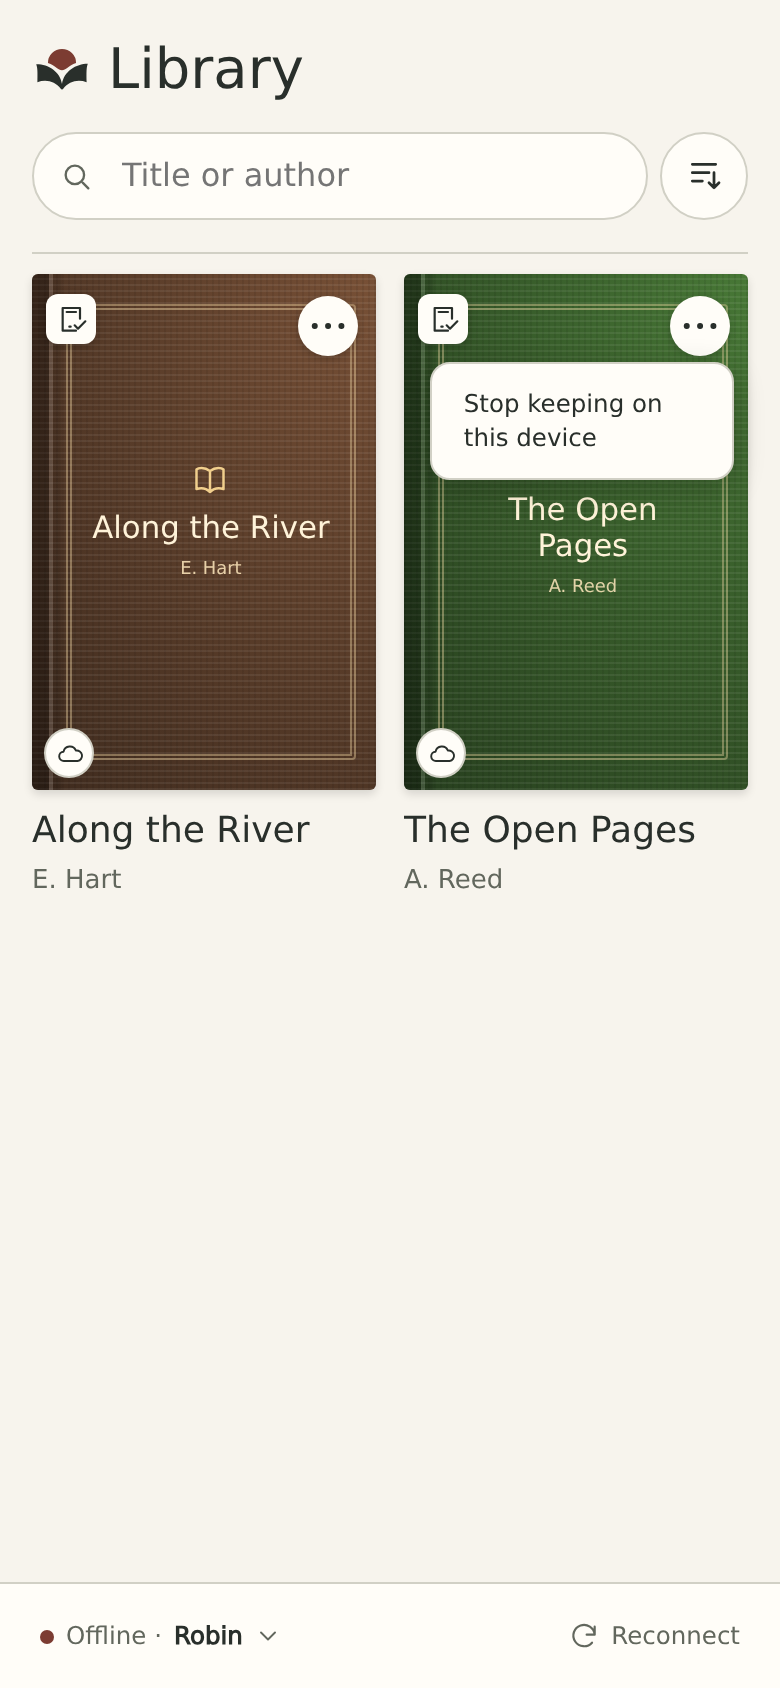
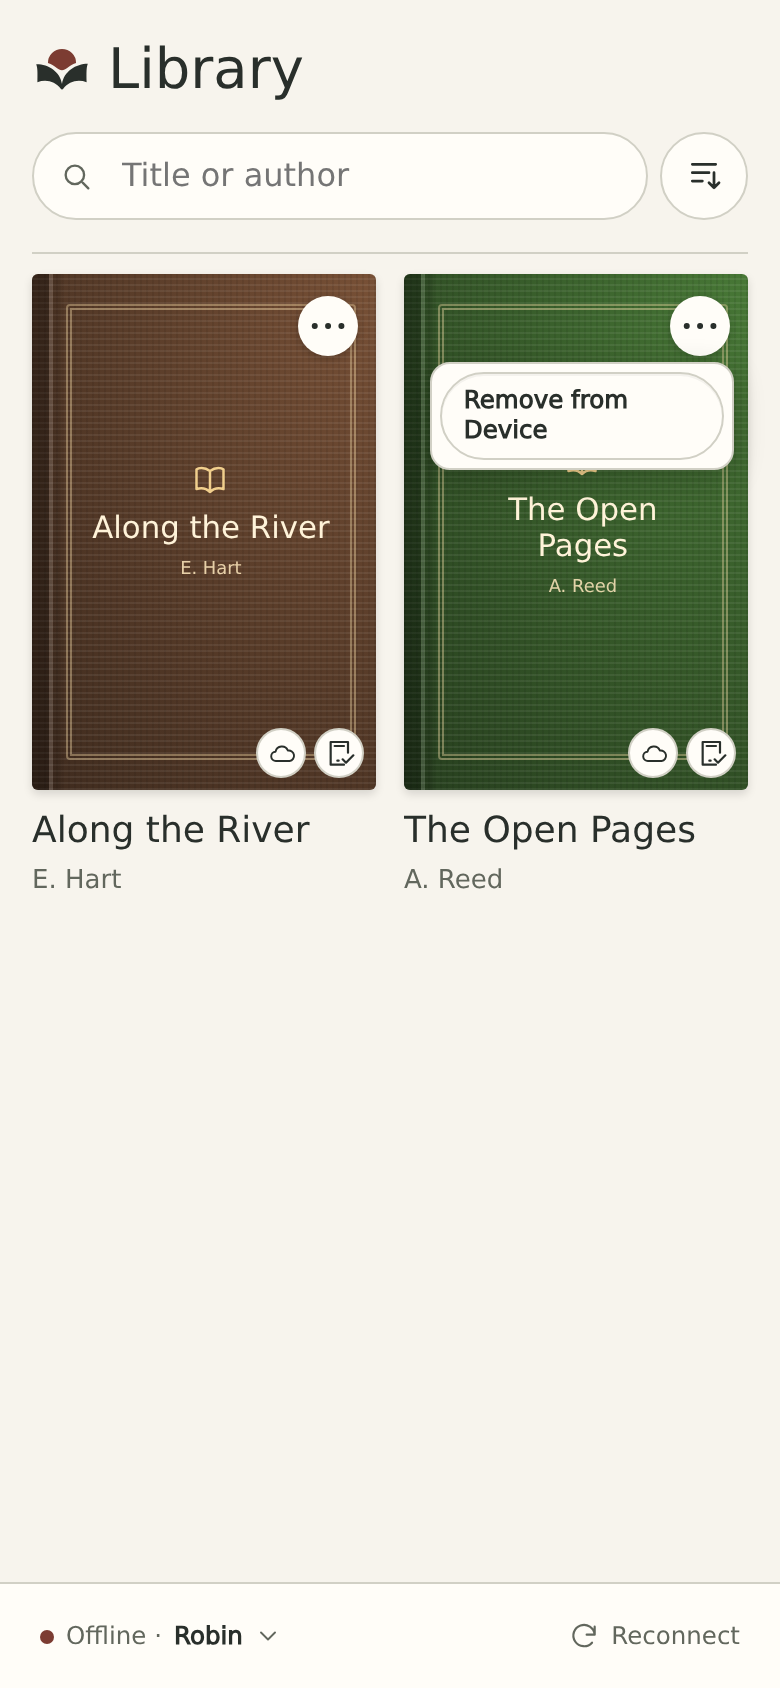
feat(library): save and remove downloads directly from book covers

diff --git a/web/tests/offline-library.spec.ts b/web/tests/offline-library.spec.ts
@@ -4,9 +4,11 @@ import { storedRows, serverEffects } from './storage';
 test('cold start, pick a profile, review offline reading and upload the selected kinds separately', async ({ page, context, server }) => {
   const user = 'offline-library';
   await register(page, server.origin, user);
-  await page.getByRole('heading', { name: 'Public book 01', exact: true }).click();
-  await page.getByRole('button', { name: 'Keep on this device' }).click();
-  await expect(page.getByRole('button', { name: 'Stop keeping on this device' })).toBeVisible();
+  const onlineCard = page.getByRole('article').filter({hasText:'Public book 01'});
+  await onlineCard.locator('summary').click();
+  await onlineCard.getByRole('button', { name: 'Save to Device' }).click();
+  await expect(onlineCard.getByRole('img', {name:'Saved to device'})).toBeVisible();
+  await expect(page).toHaveURL(/\/library/);
   const started = new Date(); started.setUTCHours(12,0,0,0); started.setUTCDate(started.getUTCDate()-1);
   const { csrf_token, user: identity } = await (await page.request.get(`${server.origin}/api/v1/session`)).json();
   const headers = { Origin: server.origin, 'X-CSRF-Token': csrf_token, 'X-AnthoLume-Reading-Generation': identity.reading_generation };
@@ -89,8 +91,8 @@ test('a signed-out profile can read a shared copy; only that account sees its re
   await signOut();
   await register(page,server.origin,alice);
   await page.getByRole('heading',{name:'Public book 01',exact:true}).click();
-  await page.getByRole('button',{name:'Keep on this device'}).click();
-  await expect(page.getByRole('button',{name:'Stop keeping on this device'})).toBeVisible();
+  await page.getByRole('button',{name:'Save to Device'}).click();
+  await expect(page.getByRole('button',{name:'Remove from Device'})).toBeVisible();
   await page.goto(`${server.origin}/library`);
   await context.setOffline(true);
   await page.getByRole('button',{name:bob,exact:true}).click();
@@ -119,8 +121,8 @@ test('seven pins and an automatically cached book coexist on the offline shelf',
   for (let i = 1; i <= 8; i++) {
     await page.getByRole('heading', { name: `Public book ${String(i).padStart(2, '0')}`, exact: true }).click();
     if (i <= 7) {
-      await page.getByRole('button', { name: 'Keep on this device' }).click();
-      await expect(page.getByRole('button', { name: 'Stop keeping on this device' })).toBeVisible();
+      await page.getByRole('button', { name: 'Save to Device' }).click();
+      await expect(page.getByRole('button', { name: 'Remove from Device' })).toBeVisible();
     } else {
       await page.getByRole('link', { name: 'Read', exact: true }).click();
       await expect(page.getByRole('region', { name: 'Book reader' })).toHaveAttribute('data-reader-state', 'ready');
@@ -130,18 +132,21 @@ test('seven pins and an automatically cached book coexist on the offline shelf',
   await context.setOffline(true);
   await page.getByRole('button',{name:'offline-capacity',exact:true}).click();
   await expect(page.getByRole('article')).toHaveCount(8);
-  const kept = page.getByRole('img', { name: 'Kept on this device' });
+  const kept = page.getByRole('img', { name: 'Saved to device' });
   await expect(kept).toHaveCount(7);
   const card = page.getByRole('article').filter({hasText:'Public book 01'});
-  for (const action of ['Cancel', 'Stop keeping']) {
+  for (const action of ['Cancel', 'Remove from Device']) {
     await card.locator('summary').click();
-    await card.getByRole('button',{name:'Stop keeping on this device'}).click();
+    await card.getByRole('button',{name:'Remove from Device'}).click();
     await expect(kept).toHaveCount(7);
-    await page.getByRole('dialog',{name:'Stop keeping this book?'}).getByRole('button',{name:action,exact:true}).click();
+    await page.getByRole('dialog',{name:'Remove this download?'}).getByRole('button',{name:action,exact:true}).click();
   }
   await expect(kept).toHaveCount(6);
+  await expect(card).toHaveCount(0);
+  await expect(page.getByRole('article')).toHaveCount(7);
+  await context.setOffline(false);
+  await expect(card).toBeVisible();
   await card.locator('summary').click();
-  await card.getByRole('button',{name:'Keep on this device'}).click();
-  await expect(kept).toHaveCount(7);
-  await expect(page.getByRole('article')).toHaveCount(8);
+  await card.getByRole('button',{name:'Save to Device'}).click();
+  await expect(card.getByRole('img',{name:'Saved to device'})).toBeVisible();
 });

diff --git a/web/src/OfflinePin.tsx b/web/src/OfflinePin.tsx
@@ -5,7 +5,7 @@ import { Dialog, ErrorNotice } from './ui';
 import { Icon } from './Icon';
 import styles from './OfflineReading.module.css';
 
-export function OfflinePin({ book, pinned, metadata, overlay = false }: { overlay?: boolean; book: Extract<BookRef, { kind: 'server' }>; pinned: boolean; metadata: { title: string | null; author: string | null } }) {
+export function OfflinePin({ book, metadata, overlay = false, canSave = true }: { overlay?: boolean; book: Extract<BookRef, { kind: 'server' }>; canSave?: boolean; metadata: { title: string | null; author: string | null } }) {
   const reading = useReading();
   const controller = useRef<AbortController | null>(null);
   const menu = useRef<HTMLDetailsElement>(null);
@@ -27,21 +27,20 @@ export function OfflinePin({ book, pinned, metadata, overlay = false }: { overla
       operation.abort(); controller.current = null;
     }
   }
-  function choose() {
-    closeMenu(); setError(null);
-    if (pinned) setConfirm(true); else void save(true);
-  }
-  const label = busy ? 'Updating offline copy…' : pinned ? 'Stop keeping on this device' : 'Keep on this device';
+  const copy = reading.deviceCopies?.get(book.documentId);
+  const actions = <>
+    {canSave && copy !== 'saved' && <Button disabled={busy || !reading.ready} onClick={() => { closeMenu(); void save(true); }}>{busy ? 'Saving…' : 'Save to Device'}</Button>}
+    {copy && <Button disabled={busy || !reading.ready} onClick={() => { closeMenu(); setError(null); setConfirm(true); }}>Remove from Device</Button>}
+  </>;
   return <>{overlay ? <>
-    {pinned && <span className={styles.keptBadge} role="img" aria-label="Kept on this device" title="Kept on this device"><Icon name="kept" size={16} /></span>}
     <details ref={menu} className={styles.bookOptions} name="offline-book-options" onBlur={e => { if (!e.currentTarget.contains(e.relatedTarget)) e.currentTarget.open = false; }} onKeyDown={e => { if (e.key === 'Escape') { e.preventDefault(); closeMenu(); } }}>
       <summary aria-label={`Options for ${metadata.title ?? 'Untitled'}`} title="Book options"><Icon name="more" size={20} /></summary>
-      <div><button onClick={choose} disabled={busy || !reading.ready}>{label}</button></div>
-    </details></> : <Button disabled={busy || !reading.ready} onClick={choose}>{label}</Button>}
+      <div>{actions}</div>
+    </details></> : actions}
     {!confirm && <ErrorNotice error={error} />}
-    {confirm && <Dialog title="Stop keeping this book?" onClose={() => { if (!busy) setConfirm(false); }} footer={<>
+    {confirm && <Dialog title="Remove this download?" onClose={() => { if (!busy) setConfirm(false); }} footer={<>
       <Button disabled={busy} onClick={() => setConfirm(false)}>Cancel</Button>
-      <Button tone="primary" disabled={busy} onClick={() => void save(false)}>Stop keeping</Button>
-    </>}><p>Its offline copy may be cleared. Your reading progress is kept.</p><ErrorNotice error={error} /></Dialog>}
+      <Button tone="primary" disabled={busy} onClick={() => void save(false)}>Remove from Device</Button>
+    </>}><p>This removes the offline copy for all profiles on this device. Your reading progress and activity are kept.</p><ErrorNotice error={error} /></Dialog>}
   </>;
 }

diff --git a/web/src/reading/repository.ts b/web/src/reading/repository.ts
@@ -190,17 +190,34 @@ export class Repository {
     }
     if (!clear && (bytes > bookCacheBytes || count > bookCacheCount)) throw new Error('Close another open book before caching this EPUB');
   }
+  async deviceCopies(account: Account) {
+    const copies = new Map<string, 'cached' | 'saved'>();
+    for (const book of await this.db.books.toArray()) {
+      const ref = book.ref;
+      if (ref.kind !== 'server' || ref.account.origin !== account.origin || ref.account.readingGeneration !== account.readingGeneration || book.availability !== 'available') continue;
+      if (book.pinned || !copies.has(ref.documentId)) copies.set(ref.documentId, book.pinned ? 'saved' : 'cached');
+    }
+    return copies;
+  }
   async setPinned(ref: BookRef, pinned: boolean, signal: AbortSignal, offline = false) {
     await this.db.transaction('rw', [this.db.books, this.db.access, this.db.sources, this.db.sourceChunks], async () => {
       signal.throwIfAborted();
       if (!offline && !await this.permitted(ref)) throw new Error('Account changed');
-      let book = await this.db.books.get(refKey(ref));
-      if (offline && ref.kind === 'server' && !book?.sourceId) {
-        book = await this.db.books.filter(b => b.ref.kind === 'server' && b.ref.documentId === ref.documentId && b.ref.account.origin === ref.account.origin && b.ref.account.readingGeneration === ref.account.readingGeneration && !!b.sourceId).first();
+      if (ref.kind !== 'server') throw new Error('Expected a server book');
+      const copies = await this.db.books.filter(b => b.ref.kind === 'server' && b.ref.documentId === ref.documentId && b.ref.account.origin === ref.account.origin && b.ref.account.readingGeneration === ref.account.readingGeneration && b.availability === 'available').toArray();
+      if (pinned) {
+        const book = copies.find(b => b.key === refKey(ref)) ?? copies[0];
+        if (!book?.sourceId || !(await this.db.sources.get(book.sourceId))?.complete) throw new Error('Book is not downloaded');
+        await this.db.books.update(book.key, { pinned: true });
+      } else {
+        for (const book of copies) {
+          await this.db.books.update(book.key, { pinned: false, sourceId: undefined, bytes: null, cover: null, availability: 'unavailable', etag: undefined });
+          for (const source of await this.db.sources.where('key').equals(book.key).filter(s => s.complete).toArray()) {
+            if (cacheLive(source, Date.now())) await this.db.sources.update(source.id, { evictOnRelease: true });
+            else await this.removeSource(source.id);
+          }
+        }
       }
-      if (!book?.sourceId || book.availability !== 'available' || !(await this.db.sources.get(book.sourceId))?.complete) throw new Error('Book is not downloaded');
-      await this.db.books.update(book.key, { pinned });
-      if (!pinned) await this.trimServerCache(0);
       signal.throwIfAborted();
     });
   }

diff --git a/web/src/reading/runtime.ts b/web/src/reading/runtime.ts
@@ -66,12 +66,12 @@ export class ReadingRuntime implements ReadingActions {
     if (this.disposed) return;
     const serial = ++this.refreshSerial, access = this.access;
     try {
-      const [books, resumeAccount, pending, offlineRecords] = await Promise.all([this.repo.projection(access), this.repo.resume(), this.repo.pending(), access.kind === 'authenticated' ? this.repo.db.offline.where('scope').equals(accountKey(access.account)).toArray() : []]);
+      const [deviceCopies, books, resumeAccount, pending, offlineRecords] = await Promise.all([access.kind === 'authenticated' || access.kind === 'offline' ? this.repo.deviceCopies(access.account) : undefined, this.repo.projection(access), this.repo.resume(), this.repo.pending(), access.kind === 'authenticated' ? this.repo.db.offline.where('scope').equals(accountKey(access.account)).toArray() : []]);
       if (serial !== this.refreshSerial || this.disposed) return;
       const scope = 'account' in access && access.kind !== 'logout' ? accountKey(access.account) : null;
       const visible = pending.filter(e => e.scope === scope);
       this.projectionAccess = access;
-      this.snapshot = { offlineRecords, ready: this.appliedGeneration === this.generation, resumeAccount, books: books.map(({ ref, title, author, cover, availability, checkpoint, addedAt, lastReadAt, pinned }) => ({ ref, title, author, cover, availability, checkpoint, addedAt, lastReadAt, pinned })), sync: this.quotaError ? 'quota-error' : !visible.length ? 'idle' : visible.every(e => e.rejected) ? 'blocked' : this.sync.status === 'idle' ? access.kind === 'authenticated' ? 'pending' : 'auth-required' : this.sync.status, pendingCount: visible.length, notice: access.kind === 'authenticated' ? this.sync.notice : null, downloads: this.snapshot.downloads, update: this.worker.update, error: this.error || this.worker.error || null };
+      this.snapshot = { deviceCopies, offlineRecords, ready: this.appliedGeneration === this.generation, resumeAccount, books: books.map(({ ref, title, author, cover, availability, checkpoint, addedAt, lastReadAt, pinned }) => ({ ref, title, author, cover, availability, checkpoint, addedAt, lastReadAt, pinned })), sync: this.quotaError ? 'quota-error' : !visible.length ? 'idle' : visible.every(e => e.rejected) ? 'blocked' : this.sync.status === 'idle' ? access.kind === 'authenticated' ? 'pending' : 'auth-required' : this.sync.status, pendingCount: visible.length, notice: access.kind === 'authenticated' ? this.sync.notice : null, downloads: this.snapshot.downloads, update: this.worker.update, error: this.error || this.worker.error || null };
       this.changed(this.snapshot);
     } catch (error) { if (!this.disposed) { this.snapshot = { ...this.snapshot, ready: false, error: String(error) }; this.changed(this.snapshot); } }
   }

diff --git a/web/src/reading/provider.tsx b/web/src/reading/provider.tsx
@@ -20,7 +20,7 @@ export function ReadingProvider(props: ProviderProps): ReactNode {
   const projection = runtime?.projectionAccess;
   const currentProjection = projection?.kind === props.access.kind && (!('account' in props.access) || projection && 'account' in projection && sameAccount(projection.account, props.access.account));
   const resumeAccount = snapshot.resumeAccount && 'account' in props.access && !sameAccount(snapshot.resumeAccount, props.access.account) ? null : snapshot.resumeAccount;
-  const filtered: ReadingSnapshot = { ...snapshot, offlineRecords: currentProjection && props.access.kind === 'authenticated' ? snapshot.offlineRecords : [], ready: snapshot.ready && currentProjection, resumeAccount, ...(!currentProjection ? { pendingCount: 0, sync: 'idle' as const, error: null, notice: null } : {}), books: snapshot.books.filter(book => visible(book.ref)), downloads: snapshot.downloads.filter(d => visible(d.ref)), ...(!('account' in props.access) || props.access.kind === 'logout' ? { pendingCount: 0, sync: 'idle' as const } : {}) };
+  const filtered: ReadingSnapshot = { ...snapshot, deviceCopies: currentProjection ? snapshot.deviceCopies : undefined, offlineRecords: currentProjection && props.access.kind === 'authenticated' ? snapshot.offlineRecords : [], ready: snapshot.ready && currentProjection, resumeAccount, ...(!currentProjection ? { pendingCount: 0, sync: 'idle' as const, error: null, notice: null } : {}), books: snapshot.books.filter(book => visible(book.ref)), downloads: snapshot.downloads.filter(d => visible(d.ref)), ...(!('account' in props.access) || props.access.kind === 'logout' ? { pendingCount: 0, sync: 'idle' as const } : {}) };
   return <ReadingContext.Provider value={{ runtime, access: props.access, snapshot: filtered }}>{props.children}</ReadingContext.Provider>;
 }
 export function useReadingContext() { const context = useContext(ReadingContext); if (!context) throw new Error('ReadingProvider is required'); return context; }

diff --git a/web/src/App.module.css b/web/src/App.module.css
@@ -49,7 +49,7 @@
 .feature p:not(.eyebrow) { color: var(--muted); }
 .feature .cover { width: var(--hero-cover-width); height: auto; aspect-ratio: 2 / 3; margin: 0; }
 .feature .coverTitle { font-size: 11px; -webkit-line-clamp: 2; }
-.feature .coverBadges { gap: 2px; left: 4px; bottom: 4px; }
+.feature .coverBadges { gap: 2px; right: 4px; bottom: 4px; }
 .feature .coverBadges > span { width: 20px; height: 20px; font-size: 12px; }
 .featureCopy { display: flex; flex-direction: column; align-items: flex-start; align-self: stretch; gap: 5px; min-width: 0; }
 .heroMetadata { display: flex; flex: 1; flex-direction: column; justify-content: center; min-width: 0; max-width: 100%; }
@@ -118,7 +118,7 @@
 .feature .coverAuthor, .editorCover .coverAuthor { display: none; }
 .editorCover .coverTitle { font-size: .75rem; -webkit-line-clamp: 2; }
 .coverWarning { position: absolute; inset-block-start: 6px; inset-inline-end: 6px; display: grid; place-items: center; width: 28px; height: 28px; border-radius: 50%; background: var(--surface); color: var(--danger); border: 1px solid var(--line); box-shadow: 0 1px 4px #0004; }
-.coverBadges { position: absolute; left: 6px; bottom: 6px; display: flex; gap: 4px; }
+.coverBadges { position: absolute; right: 6px; bottom: 6px; display: flex; gap: 4px; }
 .coverBadges > span { display: grid; place-items: center; width: 25px; height: 25px; border-radius: 50%; background: var(--surface); color: var(--ink); font-size: 14px; border: 1px solid var(--line); }
 .cardTitle { display: -webkit-box; -webkit-line-clamp: 2; -webkit-box-orient: vertical; overflow: hidden; overflow-wrap: anywhere; }
 .card h2 { font-size: 18px; margin-bottom: 4px; }

diff --git a/web/src/ui.tsx b/web/src/ui.tsx
@@ -2,7 +2,7 @@ import { ButtonLink } from './Controls';
 import { useEffect, useId, useRef, useState, type CSSProperties, type ReactNode, type Ref } from 'react';
 import { Link } from 'react-router';
 import { useQuery } from '@tanstack/react-query';
-import type { BookRef } from './reading';
+import { useReading, type BookRef } from './reading';
 import { bookKey, bookPath, type LibraryBook } from './library';
 import { session, useSession } from './session';
 import styles from './App.module.css';
@@ -80,6 +80,7 @@ export function Cover({ book, sourceId, warningId, thumbnail = false }: {
 }) {
   const { access } = useSession();
   const [localURL, setLocalURL] = useState<string | null>(null);
+  const { deviceCopies } = useReading();
   const cover = book.stored?.cover;
   useEffect(() => {
     if (!cover) { setLocalURL(null); return; }
@@ -140,6 +141,7 @@ export function Cover({ book, sourceId, warningId, thumbnail = false }: {
     {warningId && book.document?.file_available === false && <span id={warningId} className={styles.coverWarning} role="img" aria-label={missingFileLabel} title={missingFileLabel}><Icon name="warning" size={17} /></span>}
     <div className={styles.coverBadges}>
       <span id={sourceId} className={styles.provenance} role="img" aria-label={sourceLabel} title={sourceLabel}><Icon name={ref.kind === 'local' ? 'device' : 'cloud'} size={14} /></span>
+      {ref.kind === 'server' && deviceCopies?.get(ref.documentId) === 'saved' && <span role="img" aria-label="Saved to device" title="Saved to device"><Icon name="kept" size={16} /></span>}
     </div>
   </div>;
 }

diff --git a/web/src/routes/Library.tsx b/web/src/routes/Library.tsx
@@ -156,7 +156,7 @@ export function Library() {
     {documents.isPending && documents.fetchStatus === 'fetching' && <LoadingStatus>Loading shared books…</LoadingStatus>}
     {!books.length && reading.ready && !documents.isFetching && !(sharedEnabled && hasNextPage) && <p>{offline ? 'No matching books on this device.' : 'No matching books. Try another search or add an EPUB.'}</p>}
     <div className={styles.grid}>
-      {books.map((book) => <BookCard key={bookKey(book.ref)} book={book} linkState={bookLinkState} action={offline ? 'read' : 'books'}>{offline && book.ref.kind === 'server' && <OfflinePin overlay book={book.ref} metadata={book} pinned={!!book.stored?.pinned} />}</BookCard>)}
+      {books.map((book) => <BookCard key={bookKey(book.ref)} book={book} linkState={bookLinkState} action={offline ? 'read' : 'books'}>{book.ref.kind === 'server' && (offline || book.document?.file_available || reading.deviceCopies?.has(book.ref.documentId)) && <OfflinePin overlay book={book.ref} metadata={book} canSave={offline || !!book.document?.file_available} />}</BookCard>)}
       {!books.length && (!reading.ready || documents.isPending && documents.fetchStatus === 'fetching') && Array.from({ length: 6 }, (_, index) => <div key={index} className={styles.card} aria-hidden="true">
         <Skeleton block className={`${styles.cover} ${styles.coverThumbnail}`} />
         <h2 className={styles.cardTitle}><Skeleton width="75%" /></h2>

diff --git a/web/src/routes/BookDetail.tsx b/web/src/routes/BookDetail.tsx
@@ -110,7 +110,7 @@ function BookDetailContent() {
     <div className={styles.bookOverview}>
       <BookHero variant="detail" book={{ ...book, title }} headingRef={heading} progress={started ? Math.round(fraction * 100) : null} series={metadata?.series} edition={edition?.[2]}
         action={metadata?.file_available ? (started ? 'Resume' : 'Read') : null} />
-      {metadata?.file_available && <OfflinePin book={ref} metadata={book} pinned={!!stored?.pinned} />}
+      {(metadata?.file_available || reading.deviceCopies?.has(ref.documentId)) && <OfflinePin book={ref} metadata={book} canSave={!!metadata?.file_available} />}
       {fileUnavailable && <div className={styles.bookFileWarning} role="status">
         <Icon name="warning" size={18} />
         <p><strong>{missingFileLabel}</strong> <span>The server can’t find or read this file.</span></p>

diff --git a/web/src/OfflineReading.module.css b/web/src/OfflineReading.module.css
@@ -22,9 +22,7 @@
 .statusBar strong { overflow: hidden; white-space: nowrap; text-overflow: ellipsis; color: var(--ink); }
 .statusBar button { min-width: 0; }
 .statusBar button:last-child { flex: none; }
-.keptBadge, .bookOptions { position: absolute; top: 4px; }
-.keptBadge { left: 7px; top: 10px; width: 25px; height: 25px; display: grid; place-items: center; color: var(--ink); background: var(--surface); border-radius: 6px; pointer-events: none; box-shadow: 0 1px 4px #0003; }
-.bookOptions { right: 2px; }
+.bookOptions { position: absolute; top: 4px; right: 2px; }
 .bookOptions[open] { z-index: 2; }
 .bookOptions summary { width: 44px; height: 44px; display: grid; place-items: center; list-style: none; cursor: pointer; }
 .bookOptions summary::-webkit-details-marker { display: none; }

diff --git a/web/src/reading/types.ts b/web/src/reading/types.ts
@@ -24,6 +24,7 @@ export class ReadingHTTPError extends Error {
   constructor(readonly status: number, readonly problem: S['Problem']) { super(problem.detail); this.name = 'ReadingHTTPError'; }
 }
 export interface ReadingSnapshot {
+  deviceCopies?: ReadonlyMap<string, 'cached' | 'saved'>;
   offlineRecords?: readonly OfflineRecord[];
   ready: boolean; resumeAccount: Account | null; books: readonly StoredBook[]; sync: SyncStatus; pendingCount: number; notice: string | null;
   downloads: readonly { ref: BookRef; receivedBytes: number; totalBytes: number | null; preparing?: boolean }[];

diff --git a/README.md b/README.md
@@ -28,7 +28,7 @@ Docker Image: `docker pull gitea.va.reichard.io/evan/antholume:latest`
 
 ### EPUB Reader
 
-Sign in over HTTPS (or localhost) to cache books. Choose **Keep on this device** to pin a book outside the automatic six-book, 768 MiB cache. When offline, pick a remembered profile and read any book cached from the same library. Offline profiles are passwordless, including after sign-out; **Forget on this device** removes a profile and its unsubmitted drafts.
+Sign in over HTTPS (or localhost) to cache books. In the Library, choose **••• → Save to Device** to download a book without opening it. Saved books are kept outside the automatic six-book, 768 MiB cache. **Remove from Device** clears the download for all local profiles without deleting reading records or the server book. When offline, pick a remembered profile and read any book cached from the same library. Offline profiles are passwordless, including after sign-out; **Forget on this device** removes a profile and its unsubmitted drafts.
 
 Offline reading stays on the device until that account signs in and chooses **Upload selected**. Review progress and activity separately for each book. Server activity covers the same dates as the offline reading. Clearing browser storage removes downloads and unsubmitted drafts.
 
